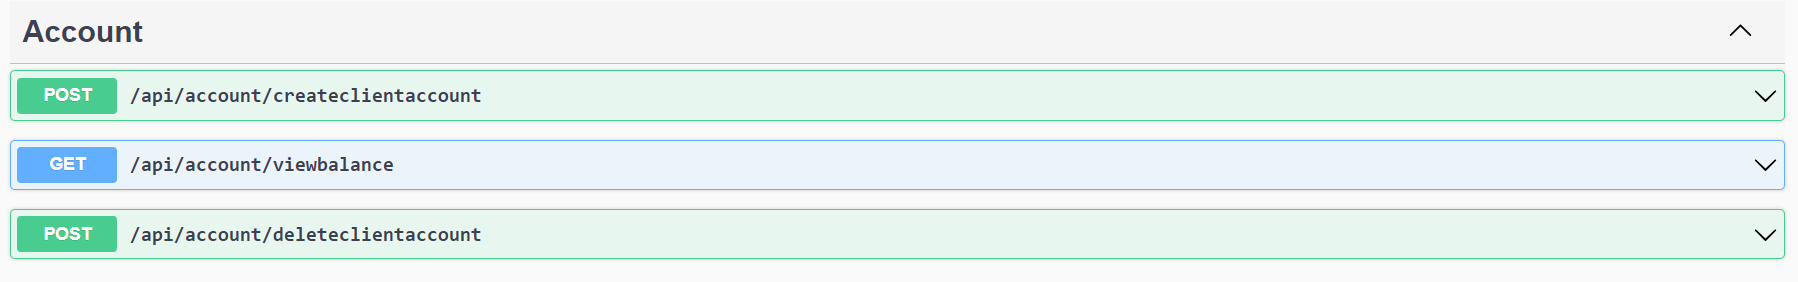
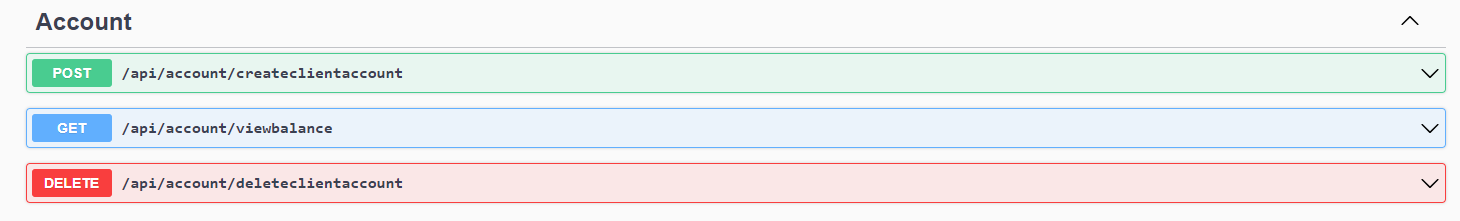
Organizando pastas e finalizando projeto

diff --git a/project/app/Controllers/AccountController.cs b/project/app/Controllers/AccountController.cs
@@ -30,7 +30,7 @@ namespace app.Controllers
             return Ok(balance);
         }
 
-        [HttpPost("deleteclientaccount")]
+        [HttpDelete("deleteclientaccount")]
         public IActionResult DeleteClientAccount(int numberAccount)
         {
             accountService.DeleteClientAccount(numberAccount);
